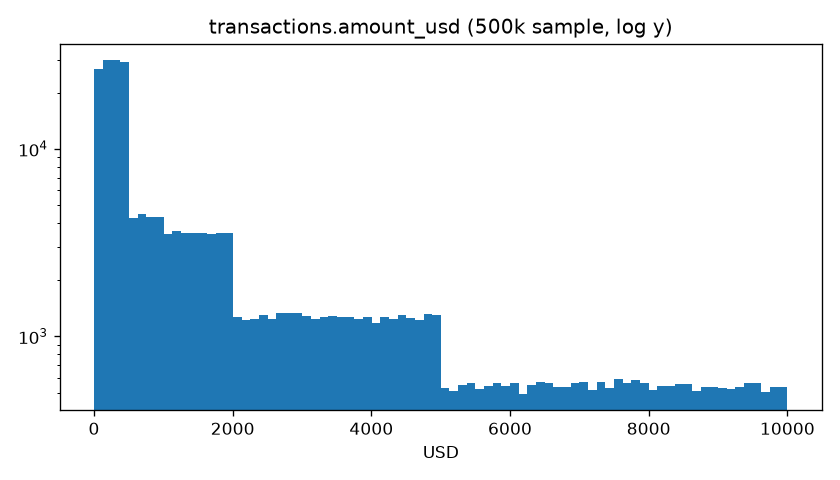
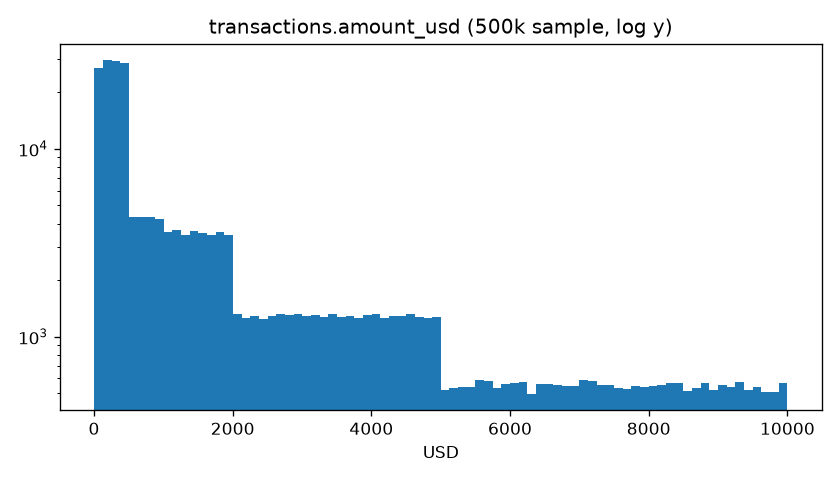
fix(eda): make samples and rankings reproducible
A seeded reservoir sample over a multi-threaded query is not
repeatable in DuckDB, and USING SAMPLE runs before WHERE, so the fraud
enriched set could come back short. Samples are now taken by seeded hash
order. Ranking queries get a tie-breaker so tied rows keep their order;
the overview histogram is regenerated from the now-fixed sample.

diff --git a/eda/scripts/eda_overview.py b/eda/scripts/eda_overview.py
@@ -212,7 +212,7 @@ def main():
     for table, col in cats:
         df = con.sql(f"""SELECT {col} AS value, count(*) AS n,
                          round(100.0*count(*)/sum(count(*)) OVER (),2) AS pct
-                         FROM {table} GROUP BY 1 ORDER BY 2 DESC LIMIT 15""").df()
+                         FROM {table} GROUP BY 1 ORDER BY 2 DESC, 1 LIMIT 15""").df()
         section(f"Distribution – {table}.{col}", df)
 
     # 5. Numeric summaries ------------------------------------------------------
@@ -251,7 +251,7 @@ def main():
         con.sql("""
         SELECT transaction_type, channel, count(*) n, sum(is_fraud::INT) fraud,
                round(100.0*avg(is_fraud::INT),3) fraud_pct, round(avg(fraud_score),1) avg_score
-        FROM transactions GROUP BY 1,2 ORDER BY fraud DESC LIMIT 15""").df(),
+        FROM transactions GROUP BY 1,2 ORDER BY fraud DESC, n DESC, 1, 2 LIMIT 15""").df(),
     )
 
     # 7. Marketing funnel ------------------------------------------------------
@@ -264,7 +264,7 @@ def main():
                round(100*avg(was_clicked::INT),1) clicked_pct,
                round(100*avg(had_conversion::INT),2) conv_pct,
                round(sum(send_cost),0) AS total_cost
-        FROM campaign_sends GROUP BY 1 ORDER BY 2 DESC""").df(),
+        FROM campaign_sends GROUP BY 1 ORDER BY 2 DESC, 1""").df(),
     )
 
     # 8. Contact center -------------------------------------------------------
@@ -273,7 +273,7 @@ def main():
         con.sql("""
         SELECT reason_category, count(*) n, round(100*avg(was_resolved::INT),1) resolved_pct,
                round(avg(sentiment_score),2) avg_sentiment, round(avg(duration_seconds)) avg_dur_s
-        FROM call_center_interactions GROUP BY 1 ORDER BY 2 DESC""").df(),
+        FROM call_center_interactions GROUP BY 1 ORDER BY 2 DESC, 1""").df(),
     )
 
     # 9. Figures ---------------------------------------------------------------
@@ -294,7 +294,9 @@ def main():
     fig.savefig(FIGS / "monthly_volumes.png", dpi=120)
     plt.close(fig)
 
-    amt = con.sql("SELECT amount_usd FROM transactions USING SAMPLE 500000").df()
+    amt = con.sql(
+        "SELECT amount_usd FROM transactions ORDER BY hash(transaction_id, 0) LIMIT 500000"
+    ).df()
     fig, ax = plt.subplots(figsize=(7, 4))
     ax.hist(amt["amount_usd"], bins=80)
     ax.set_yscale("log")

diff --git a/eda/src/latam_eda/anomaly.py b/eda/src/latam_eda/anomaly.py
@@ -37,10 +37,13 @@ def build_tx_features(
 
     enrich_fraud=True keeps *every* is_fraud row plus a sample of n non-fraud rows (for supervised fraud models).
     """
+    # Seeded hash order, not USING SAMPLE: a reservoir sample over this multi-threaded
+    # window query differs run to run despite the seed, and it is applied before WHERE.
+    pick = f"order by hash(transaction_id, {seed}) limit {n}"
     final = (
-        f"select * from (select * from f where not coalesce(is_fraud, false) using sample {n} rows (reservoir, {seed})) union all select * from f where is_fraud"
+        f"select * from (select * from f where not coalesce(is_fraud, false) {pick}) union all select * from f where is_fraud"
         if enrich_fraud
-        else f"select * from f using sample {n} rows (reservoir, {seed})"
+        else f"select * from f {pick}"
     )
     q = f"""
     with base as (
